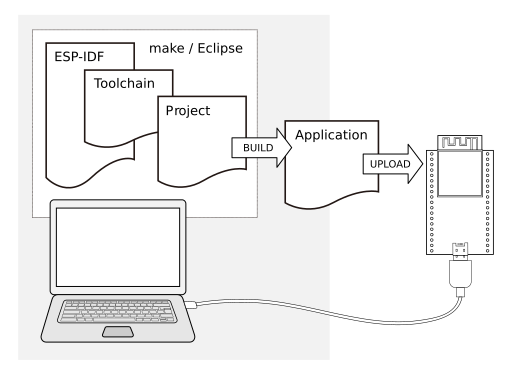
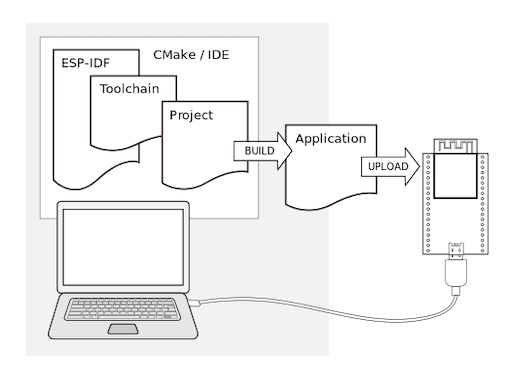
Update docs images

Changed region(s): [[0.0593, 0.0875, 0.9783, 0.9337]]

diff --git a/docs/en/get-started-legacy/index.rst b/docs/en/get-started-legacy/index.rst
@@ -42,15 +42,6 @@ Software:
 * **ESP-IDF** that essentially contains API (software libraries and source code) for ESP32 and scripts to operate the **Toolchain**
 * **Text editor** to write programs (**Projects**) in C, e.g., `Eclipse <https://www.eclipse.org/>`_
 
-
-.. figure:: ../../_static/what-you-need.png
-    :align: center
-    :alt: Development of applications for ESP32
-    :figclass: align-center
-
-    Development of applications for ESP32
-
-
 Development Board Overviews
 ===========================
 
